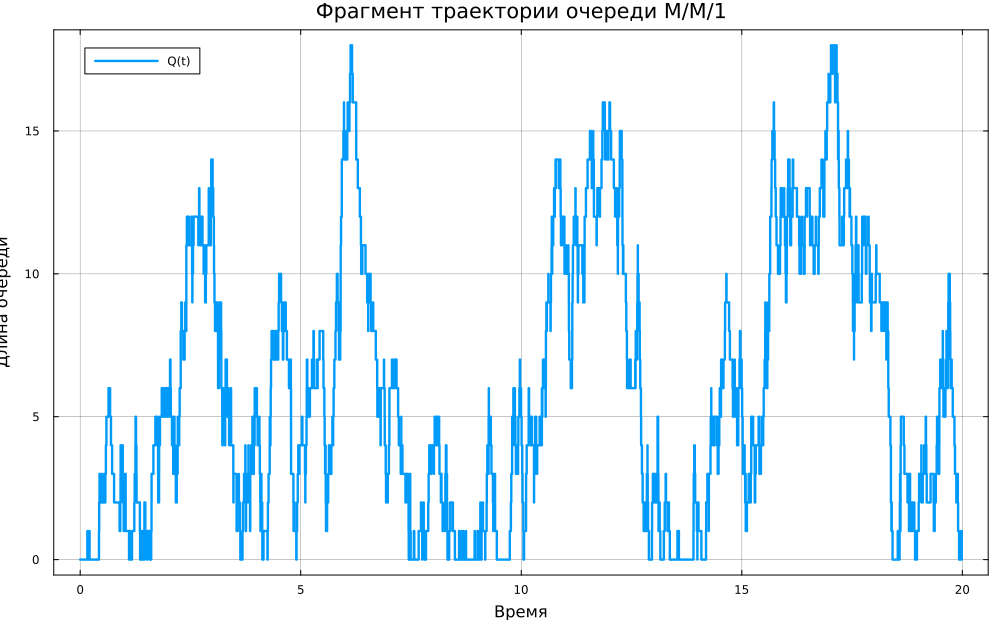
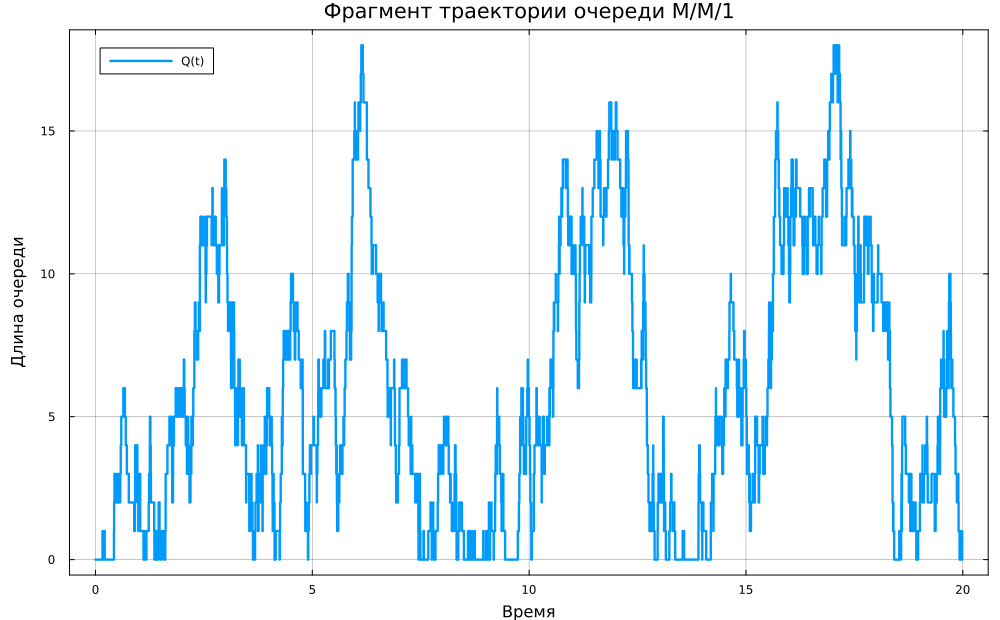
fix(lab03): render executed notebooks and correct plot margins

diff --git a/labs/lab03/project/markdown/01_mm1_queue/01_mm1_queue.html b/labs/lab03/project/markdown/01_mm1_queue/01_mm1_queue.html
@@ -7,7 +7,7 @@
 <meta name="viewport" content="width=device-width, initial-scale=1.0, user-scalable=yes">
 
 
-<title>mm1_queue</title>
+<title>Система массового обслуживания M/M/1</title>
 <style>
 
 span.smallcaps{font-variant: small-caps;}
@@ -2228,7 +2228,7 @@ vertical-align: -.125em;
 
 
 <p><strong>Цель:</strong> выполнить дискретно-событийное моделирование одноканальной СМО, сравнить статистические оценки с формулами теории очередей.</p>
-<div id="2" class="cell" data-execution_count="1">
+<div id="cell-2" class="cell" data-quarto-private-1="{&quot;key&quot;:&quot;execution&quot;,&quot;value&quot;:{&quot;iopub.execute_input&quot;:&quot;2026-08-31T09:40:03.692000Z&quot;,&quot;iopub.status.busy&quot;:&quot;2026-08-31T09:40:03.688000Z&quot;,&quot;iopub.status.idle&quot;:&quot;2026-08-31T09:40:20.986000Z&quot;,&quot;shell.execute_reply&quot;:&quot;2026-08-31T09:40:20.986000Z&quot;}}" data-execution_count="1">
 <div class="code-copy-outer-scaffold"><div class="sourceCode cell-code" id="cb1"><pre class="sourceCode julia code-with-copy"><code class="sourceCode julia"><span id="cb1-1"><a href="#cb1-1" aria-hidden="true" tabindex="-1"></a><span class="im">using</span> <span class="bu">DrWatson</span></span>
 <span id="cb1-2"><a href="#cb1-2" aria-hidden="true" tabindex="-1"></a><span class="pp">@quickactivate</span> <span class="st">&quot;project&quot;</span></span>
 <span id="cb1-3"><a href="#cb1-3" aria-hidden="true" tabindex="-1"></a><span class="cn">ENV</span>[<span class="st">&quot;GKSwstype&quot;</span>] <span class="op">=</span> <span class="st">&quot;100&quot;</span></span>
@@ -2255,40 +2255,50 @@ vertical-align: -.125em;
 <span id="cb1-24"><a href="#cb1-24" aria-hidden="true" tabindex="-1"></a><span class="fu">println</span>(<span class="st">&quot;Заявок: </span><span class="sc">$</span>(result.arrivals)<span class="st">, обслужено: </span><span class="sc">$</span>(result.served)<span class="st">, потеряно: </span><span class="sc">$</span>(result.lost)<span class="st">&quot;</span>)</span>
 <span id="cb1-25"><a href="#cb1-25" aria-hidden="true" tabindex="-1"></a><span class="fu">show</span>(summary; allrows<span class="op">=</span><span class="cn">true</span>, allcols<span class="op">=</span><span class="cn">true</span>); <span class="fu">println</span>()</span>
 <span id="cb1-26"><a href="#cb1-26" aria-hidden="true" tabindex="-1"></a></span>
-<span id="cb1-27"><a href="#cb1-27" aria-hidden="true" tabindex="-1"></a><span class="fu">default</span>(fontfamily<span class="op">=</span><span class="st">&quot;DejaVu Sans&quot;</span>, linewidth<span class="op">=</span><span class="fl">2.4</span>, framestyle<span class="op">=:</span>box, gridalpha<span class="op">=</span><span class="fl">0.22</span>)</span>
-<span id="cb1-28"><a href="#cb1-28" aria-hidden="true" tabindex="-1"></a>limit <span class="op">=</span> <span class="fu">searchsortedlast</span>(result.times, <span class="fl">20.0</span>)</span>
-<span id="cb1-29"><a href="#cb1-29" aria-hidden="true" tabindex="-1"></a>p1 <span class="op">=</span> <span class="fu">plot</span>(result.times[<span class="fl">1</span><span class="op">:</span>limit], result.queue_lengths[<span class="fl">1</span><span class="op">:</span>limit]; seriestype<span class="op">=:</span>steppost,</span>
-<span id="cb1-30"><a href="#cb1-30" aria-hidden="true" tabindex="-1"></a>    xlabel<span class="op">=</span><span class="st">&quot;Время&quot;</span>, ylabel<span class="op">=</span><span class="st">&quot;Длина очереди&quot;</span>, label<span class="op">=</span><span class="st">&quot;Q(t)&quot;</span>,</span>
-<span id="cb1-31"><a href="#cb1-31" aria-hidden="true" tabindex="-1"></a>    title<span class="op">=</span><span class="st">&quot;Фрагмент траектории очереди M/M/1&quot;</span>, size<span class="op">=</span>(<span class="fl">1000</span>,<span class="fl">620</span>))</span>
-<span id="cb1-32"><a href="#cb1-32" aria-hidden="true" tabindex="-1"></a><span class="fu">savefig</span>(p1, <span class="fu">plotsdir</span>(name, <span class="st">&quot;queue_trajectory.png&quot;</span>))</span>
-<span id="cb1-33"><a href="#cb1-33" aria-hidden="true" tabindex="-1"></a></span>
-<span id="cb1-34"><a href="#cb1-34" aria-hidden="true" tabindex="-1"></a>p2 <span class="op">=</span> <span class="fu">histogram</span>(result.waits; bins<span class="op">=</span><span class="fl">50</span>, normalize<span class="op">=:</span>pdf, alpha<span class="op">=</span><span class="fl">0.65</span>,</span>
-<span id="cb1-35"><a href="#cb1-35" aria-hidden="true" tabindex="-1"></a>    xlabel<span class="op">=</span><span class="st">&quot;Время ожидания&quot;</span>, ylabel<span class="op">=</span><span class="st">&quot;Плотность&quot;</span>, label<span class="op">=</span><span class="st">&quot;моделирование&quot;</span>,</span>
-<span id="cb1-36"><a href="#cb1-36" aria-hidden="true" tabindex="-1"></a>    title<span class="op">=</span><span class="st">&quot;Распределение времени ожидания&quot;</span>, size<span class="op">=</span>(<span class="fl">1000</span>,<span class="fl">620</span>))</span>
-<span id="cb1-37"><a href="#cb1-37" aria-hidden="true" tabindex="-1"></a><span class="fu">savefig</span>(p2, <span class="fu">plotsdir</span>(name, <span class="st">&quot;wait_histogram.png&quot;</span>))</span>
-<span id="cb1-38"><a href="#cb1-38" aria-hidden="true" tabindex="-1"></a></span>
-<span id="cb1-39"><a href="#cb1-39" aria-hidden="true" tabindex="-1"></a>p3 <span class="op">=</span> <span class="fu">bar</span>(summary.metric, summary.theory; bar_position<span class="op">=:</span>dodge, bar_width<span class="op">=</span><span class="fl">0.38</span>,</span>
-<span id="cb1-40"><a href="#cb1-40" aria-hidden="true" tabindex="-1"></a>    label<span class="op">=</span><span class="st">&quot;теория&quot;</span>, ylabel<span class="op">=</span><span class="st">&quot;Значение&quot;</span>, title<span class="op">=</span><span class="st">&quot;Теория и имитация M/M/1&quot;</span>,</span>
-<span id="cb1-41"><a href="#cb1-41" aria-hidden="true" tabindex="-1"></a>    size<span class="op">=</span>(<span class="fl">1000</span>,<span class="fl">620</span>))</span>
-<span id="cb1-42"><a href="#cb1-42" aria-hidden="true" tabindex="-1"></a><span class="fu">bar!</span>(p3, summary.metric, summary.simulation; bar_position<span class="op">=:</span>dodge,</span>
-<span id="cb1-43"><a href="#cb1-43" aria-hidden="true" tabindex="-1"></a>    bar_width<span class="op">=</span><span class="fl">0.38</span>, label<span class="op">=</span><span class="st">&quot;моделирование&quot;</span>)</span>
-<span id="cb1-44"><a href="#cb1-44" aria-hidden="true" tabindex="-1"></a><span class="fu">savefig</span>(p3, <span class="fu">plotsdir</span>(name, <span class="st">&quot;theory_vs_simulation.png&quot;</span>))</span></code></pre></div><button title="Copy to Clipboard" class="code-copy-button"><i class="bi"></i></button></div>
+<span id="cb1-27"><a href="#cb1-27" aria-hidden="true" tabindex="-1"></a><span class="fu">default</span>(fontfamily<span class="op">=</span><span class="st">&quot;DejaVu Sans&quot;</span>, linewidth<span class="op">=</span><span class="fl">2.4</span>, framestyle<span class="op">=:</span>box, gridalpha<span class="op">=</span><span class="fl">0.22</span>,</span>
+<span id="cb1-28"><a href="#cb1-28" aria-hidden="true" tabindex="-1"></a>    left_margin<span class="op">=</span><span class="fl">5</span> <span class="op">*</span> Plots.mm)</span>
+<span id="cb1-29"><a href="#cb1-29" aria-hidden="true" tabindex="-1"></a>limit <span class="op">=</span> <span class="fu">searchsortedlast</span>(result.times, <span class="fl">20.0</span>)</span>
+<span id="cb1-30"><a href="#cb1-30" aria-hidden="true" tabindex="-1"></a>p1 <span class="op">=</span> <span class="fu">plot</span>(result.times[<span class="fl">1</span><span class="op">:</span>limit], result.queue_lengths[<span class="fl">1</span><span class="op">:</span>limit]; seriestype<span class="op">=:</span>steppost,</span>
+<span id="cb1-31"><a href="#cb1-31" aria-hidden="true" tabindex="-1"></a>    xlabel<span class="op">=</span><span class="st">&quot;Время&quot;</span>, ylabel<span class="op">=</span><span class="st">&quot;Длина очереди&quot;</span>, label<span class="op">=</span><span class="st">&quot;Q(t)&quot;</span>,</span>
+<span id="cb1-32"><a href="#cb1-32" aria-hidden="true" tabindex="-1"></a>    title<span class="op">=</span><span class="st">&quot;Фрагмент траектории очереди M/M/1&quot;</span>, size<span class="op">=</span>(<span class="fl">1000</span>,<span class="fl">620</span>))</span>
+<span id="cb1-33"><a href="#cb1-33" aria-hidden="true" tabindex="-1"></a><span class="fu">savefig</span>(p1, <span class="fu">plotsdir</span>(name, <span class="st">&quot;queue_trajectory.png&quot;</span>))</span>
+<span id="cb1-34"><a href="#cb1-34" aria-hidden="true" tabindex="-1"></a></span>
+<span id="cb1-35"><a href="#cb1-35" aria-hidden="true" tabindex="-1"></a>p2 <span class="op">=</span> <span class="fu">histogram</span>(result.waits; bins<span class="op">=</span><span class="fl">50</span>, normalize<span class="op">=:</span>pdf, alpha<span class="op">=</span><span class="fl">0.65</span>,</span>
+<span id="cb1-36"><a href="#cb1-36" aria-hidden="true" tabindex="-1"></a>    xlabel<span class="op">=</span><span class="st">&quot;Время ожидания&quot;</span>, ylabel<span class="op">=</span><span class="st">&quot;Плотность&quot;</span>, label<span class="op">=</span><span class="st">&quot;моделирование&quot;</span>,</span>
+<span id="cb1-37"><a href="#cb1-37" aria-hidden="true" tabindex="-1"></a>    title<span class="op">=</span><span class="st">&quot;Распределение времени ожидания&quot;</span>, size<span class="op">=</span>(<span class="fl">1000</span>,<span class="fl">620</span>))</span>
+<span id="cb1-38"><a href="#cb1-38" aria-hidden="true" tabindex="-1"></a><span class="fu">savefig</span>(p2, <span class="fu">plotsdir</span>(name, <span class="st">&quot;wait_histogram.png&quot;</span>))</span>
+<span id="cb1-39"><a href="#cb1-39" aria-hidden="true" tabindex="-1"></a></span>
+<span id="cb1-40"><a href="#cb1-40" aria-hidden="true" tabindex="-1"></a>p3 <span class="op">=</span> <span class="fu">plot</span>(summary.metric, summary.theory; marker<span class="op">=:</span>circle, markersize<span class="op">=</span><span class="fl">8</span>,</span>
+<span id="cb1-41"><a href="#cb1-41" aria-hidden="true" tabindex="-1"></a>    label<span class="op">=</span><span class="st">&quot;теория&quot;</span>, ylabel<span class="op">=</span><span class="st">&quot;Значение&quot;</span>, title<span class="op">=</span><span class="st">&quot;Теория и имитация M/M/1&quot;</span>,</span>
+<span id="cb1-42"><a href="#cb1-42" aria-hidden="true" tabindex="-1"></a>    size<span class="op">=</span>(<span class="fl">1000</span>,<span class="fl">620</span>))</span>
+<span id="cb1-43"><a href="#cb1-43" aria-hidden="true" tabindex="-1"></a><span class="fu">plot!</span>(p3, summary.metric, summary.simulation; marker<span class="op">=:</span>diamond, markersize<span class="op">=</span><span class="fl">7</span>,</span>
+<span id="cb1-44"><a href="#cb1-44" aria-hidden="true" tabindex="-1"></a>    linestyle<span class="op">=:</span>dash, label<span class="op">=</span><span class="st">&quot;моделирование&quot;</span>)</span>
+<span id="cb1-45"><a href="#cb1-45" aria-hidden="true" tabindex="-1"></a><span class="fu">savefig</span>(p3, <span class="fu">plotsdir</span>(name, <span class="st">&quot;theory_vs_simulation.png&quot;</span>))</span></code></pre></div><button title="Copy to Clipboard" class="code-copy-button"><i class="bi"></i></button></div>
 <div class="cell-output cell-output-stdout">
 <div class="ansi-escaped-output">
 <pre>=== СМО M/M/1: базовый эксперимент ===
+
 lambda = 30.0, mu = 33.0, rho = 0.9091
+
 Заявок: 29825, обслужено: 29825, потеряно: 0
+
 <span class="ansi-bold">5×4 DataFrame</span>
+
 <span class="ansi-bold"> Row </span>│<span class="ansi-bold"> metric </span><span class="ansi-bold"> theory    </span><span class="ansi-bold"> simulation </span><span class="ansi-bold"> relative_error </span>
+
 <span class="ansi-bold">     </span>│<span class="ansi-bright-black-fg"> String </span><span class="ansi-bright-black-fg"> Float64   </span><span class="ansi-bright-black-fg"> Float64    </span><span class="ansi-bright-black-fg"> Float64        </span>
+
 ─────┼───────────────────────────────────────────────
+
    1 │ rho      0.909091    0.914581      0.00603923
+
    2 │ L       10.0         9.52472       0.047528
+
    3 │ Lq       9.09091     8.61014       0.0528848
+
    4 │ W        0.333333    0.319354      0.0419393
+
    5 │ Wq       0.30303     0.288689      0.0473275
-<span class="ansi-yellow-fg ansi-bold">┌ </span><span class="ansi-yellow-fg ansi-bold">Warning: </span>Keyword argument bar_position not supported with Plots.GRBackend().  Choose from: annotationcolor, annotationfontfamily, annotationfontsize, annotationhalign, annotationrotation, annotations, annotationvalign, arrow, aspect_ratio, axis, background_color, background_color_inside, background_color_outside, background_color_subplot, bar_width, bins, bottom_margin, camera, clims, color_palette, colorbar, colorbar_entry, colorbar_scale, colorbar_title, colorbar_titlefont, colorbar_titlefontcolor, colorbar_titlefontrotation, colorbar_titlefontsize, connections, contour_labels, discrete_values, fill, fill_z, fillalpha, fillcolor, fillrange, fillstyle, flip, fontfamily, fontfamily_subplot, foreground_color, foreground_color_axis, foreground_color_border, foreground_color_grid, foreground_color_subplot, foreground_color_text, formatter, framestyle, grid, gridalpha, gridlinewidth, gridstyle, group, guide, guidefont, guidefontcolor, guidefontfamily, guidefonthalign, guidefontrotation, guidefontsize, guidefontvalign, html_output_format, inset_subplots, label, layout, left_margin, legend_background_color, legend_column, legend_font, legend_font_color, legend_font_family, legend_font_halign, legend_font_pointsize, legend_font_rotation, legend_font_valign, legend_foreground_color, legend_position, legend_title, legend_title_font_color, legend_title_font_family, legend_title_font_pointsize, legend_title_font_rotation, legend_title_font_valigm, levels, lims, line, line_z, linealpha, linecolor, linestyle, linewidth, link, margin, marker_z, markeralpha, markercolor, markershape, markersize, markerstrokealpha, markerstrokecolor, markerstrokewidth, minorgrid, minorgridalpha, minorgridlinewidth, minorgridstyle, minorticks, mirror, normalize, orientation, overwrite_figure, permute, plot_title, plot_titlefontcolor, plot_titlefontfamily, plot_titlefontrotation, plot_titlefontsize, plot_titlelocation, plot_titlevspan, polar, primary, projection, quiver, ribbon, right_margin, rotation, scale, series_annotations, seriesalpha, seriescolor, seriestype, show, show_empty_bins, showaxis, size, smooth, subplot, subplot_index, thickness_scaling, tick_direction, tickfontcolor, tickfontfamily, tickfonthalign, tickfontrotation, tickfontsize, tickfontvalign, ticks, title, titlefontcolor, titlefontfamily, titlefonthalign, titlefontrotation, titlefontsize, titlefontvalign, top_margin, unitformat, weights, widen, window_title, x, xdiscrete_values, xerror, xflip, xforeground_color_axis, xforeground_color_border, xforeground_color_grid, xforeground_color_text, xformatter, xgrid, xgridalpha, xgridlinewidth, xgridstyle, xguide, xguidefontcolor, xguidefontfamily, xguidefonthalign, xguidefontrotation, xguidefontsize, xguidefontvalign, xlims, xlink, xminorgrid, xminorgridalpha, xminorgridlinewidth, xminorgridstyle, xminorticks, xmirror, xrotation, xscale, xshowaxis, xtick_direction, xtickfontcolor, xtickfontfamily, xtickfonthalign, xtickfontrotation, xtickfontsize, xtickfontvalign, xticks, xunitformat, xwiden, y, ydiscrete_values, yerror, yflip, yforeground_color_axis, yforeground_color_border, yforeground_color_grid, yforeground_color_text, yformatter, ygrid, ygridalpha, ygridlinewidth, ygridstyle, yguide, yguidefontcolor, yguidefontfamily, yguidefonthalign, yguidefontrotation, yguidefontsize, yguidefontvalign, ylims, ylink, yminorgrid, yminorgridalpha, yminorgridlinewidth, yminorgridstyle, yminorticks, ymirror, yrotation, yscale, yshowaxis, ytick_direction, ytickfontcolor, ytickfontfamily, ytickfonthalign, ytickfontrotation, ytickfontsize, ytickfontvalign, yticks, yunitformat, ywiden, z, z_order, zdiscrete_values, zerror, zflip, zforeground_color_axis, zforeground_color_border, zforeground_color_grid, zforeground_color_text, zformatter, zgrid, zgridalpha, zgridlinewidth, zgridstyle, zguide, zguidefontcolor, zguidefontfamily, zguidefonthalign, zguidefontrotation, zguidefontsize, zguidefontvalign, zlims, zlink, zminorgrid, zminorgridalpha, zminorgridlinewidth, zminorgridstyle, zminorticks, zmirror, zrotation, zscale, zshowaxis, ztick_direction, ztickfontcolor, ztickfontfamily, ztickfonthalign, ztickfontrotation, ztickfontsize, ztickfontvalign, zticks, zunitformat, zwiden
-<span class="ansi-yellow-fg ansi-bold">└ </span><span class="ansi-bright-black-fg">@ Plots /workspace/labs/lab03/project/.julia/packages/Plots/h49MV/src/args.jl:1563</span>
 </pre>
 </div>
 </div>

diff --git a/labs/lab03/project/markdown/02_load_scan/02_load_scan.html b/labs/lab03/project/markdown/02_load_scan/02_load_scan.html
@@ -7,7 +7,7 @@
 <meta name="viewport" content="width=device-width, initial-scale=1.0, user-scalable=yes">
 
 
-<title>load_scan</title>
+<title>Нагрузочный эксперимент для M/M/1</title>
 <style>
 
 span.smallcaps{font-variant: small-caps;}
@@ -2228,7 +2228,7 @@ vertical-align: -.125em;
 
 
 <p><strong>Цель:</strong> показать нелинейный рост очереди при приближении загрузки к единице.</p>
-<div id="2" class="cell" data-execution_count="1">
+<div id="cell-2" class="cell" data-quarto-private-1="{&quot;key&quot;:&quot;execution&quot;,&quot;value&quot;:{&quot;iopub.execute_input&quot;:&quot;2026-08-31T09:40:25.246000Z&quot;,&quot;iopub.status.busy&quot;:&quot;2026-08-31T09:40:25.221000Z&quot;,&quot;iopub.status.idle&quot;:&quot;2026-08-31T09:40:48.885000Z&quot;,&quot;shell.execute_reply&quot;:&quot;2026-08-31T09:40:48.885000Z&quot;}}" data-execution_count="1">
 <div class="code-copy-outer-scaffold"><div class="sourceCode cell-code" id="cb1"><pre class="sourceCode julia code-with-copy"><code class="sourceCode julia"><span id="cb1-1"><a href="#cb1-1" aria-hidden="true" tabindex="-1"></a><span class="im">using</span> <span class="bu">DrWatson</span></span>
 <span id="cb1-2"><a href="#cb1-2" aria-hidden="true" tabindex="-1"></a><span class="pp">@quickactivate</span> <span class="st">&quot;project&quot;</span></span>
 <span id="cb1-3"><a href="#cb1-3" aria-hidden="true" tabindex="-1"></a><span class="cn">ENV</span>[<span class="st">&quot;GKSwstype&quot;</span>] <span class="op">=</span> <span class="st">&quot;100&quot;</span></span>
@@ -2257,30 +2257,42 @@ vertical-align: -.125em;
 <span id="cb1-26"><a href="#cb1-26" aria-hidden="true" tabindex="-1"></a><span class="fu">println</span>(<span class="st">&quot;=== Нагрузочный эксперимент M/M/1 ===&quot;</span>)</span>
 <span id="cb1-27"><a href="#cb1-27" aria-hidden="true" tabindex="-1"></a><span class="fu">show</span>(scan; allrows<span class="op">=</span><span class="cn">true</span>, allcols<span class="op">=</span><span class="cn">true</span>); <span class="fu">println</span>()</span>
 <span id="cb1-28"><a href="#cb1-28" aria-hidden="true" tabindex="-1"></a></span>
-<span id="cb1-29"><a href="#cb1-29" aria-hidden="true" tabindex="-1"></a><span class="fu">default</span>(fontfamily<span class="op">=</span><span class="st">&quot;DejaVu Sans&quot;</span>, linewidth<span class="op">=</span><span class="fl">2.4</span>, framestyle<span class="op">=:</span>box, gridalpha<span class="op">=</span><span class="fl">0.22</span>)</span>
-<span id="cb1-30"><a href="#cb1-30" aria-hidden="true" tabindex="-1"></a>p1 <span class="op">=</span> <span class="fu">plot</span>(scan.rho, scan.theory_Lq; label<span class="op">=</span><span class="st">&quot;теория&quot;</span>, xlabel<span class="op">=</span><span class="st">&quot;Загрузка rho&quot;</span>,</span>
-<span id="cb1-31"><a href="#cb1-31" aria-hidden="true" tabindex="-1"></a>    ylabel<span class="op">=</span><span class="st">&quot;Средняя длина очереди&quot;</span>, title<span class="op">=</span><span class="st">&quot;Рост очереди при rho → 1&quot;</span>,</span>
-<span id="cb1-32"><a href="#cb1-32" aria-hidden="true" tabindex="-1"></a>    size<span class="op">=</span>(<span class="fl">1000</span>,<span class="fl">620</span>), marker<span class="op">=:</span>circle)</span>
-<span id="cb1-33"><a href="#cb1-33" aria-hidden="true" tabindex="-1"></a><span class="fu">plot!</span>(p1, scan.rho, scan.simulation_Lq; label<span class="op">=</span><span class="st">&quot;моделирование&quot;</span>, marker<span class="op">=:</span>diamond)</span>
-<span id="cb1-34"><a href="#cb1-34" aria-hidden="true" tabindex="-1"></a><span class="fu">savefig</span>(p1, <span class="fu">plotsdir</span>(name, <span class="st">&quot;load_curve.png&quot;</span>))</span>
-<span id="cb1-35"><a href="#cb1-35" aria-hidden="true" tabindex="-1"></a></span>
-<span id="cb1-36"><a href="#cb1-36" aria-hidden="true" tabindex="-1"></a>p2 <span class="op">=</span> <span class="fu">plot</span>(scan.rho, scan.simulation_Wq; label<span class="op">=</span><span class="st">&quot;Wq&quot;</span>, xlabel<span class="op">=</span><span class="st">&quot;Загрузка rho&quot;</span>,</span>
-<span id="cb1-37"><a href="#cb1-37" aria-hidden="true" tabindex="-1"></a>    ylabel<span class="op">=</span><span class="st">&quot;Среднее ожидание&quot;</span>, title<span class="op">=</span><span class="st">&quot;Задержка в зависимости от нагрузки&quot;</span>,</span>
-<span id="cb1-38"><a href="#cb1-38" aria-hidden="true" tabindex="-1"></a>    size<span class="op">=</span>(<span class="fl">1000</span>,<span class="fl">620</span>), marker<span class="op">=:</span>circle, color<span class="op">=:</span>red)</span>
-<span id="cb1-39"><a href="#cb1-39" aria-hidden="true" tabindex="-1"></a><span class="fu">savefig</span>(p2, <span class="fu">plotsdir</span>(name, <span class="st">&quot;wait_curve.png&quot;</span>))</span></code></pre></div><button title="Copy to Clipboard" class="code-copy-button"><i class="bi"></i></button></div>
+<span id="cb1-29"><a href="#cb1-29" aria-hidden="true" tabindex="-1"></a><span class="fu">default</span>(fontfamily<span class="op">=</span><span class="st">&quot;DejaVu Sans&quot;</span>, linewidth<span class="op">=</span><span class="fl">2.4</span>, framestyle<span class="op">=:</span>box, gridalpha<span class="op">=</span><span class="fl">0.22</span>,</span>
+<span id="cb1-30"><a href="#cb1-30" aria-hidden="true" tabindex="-1"></a>    left_margin<span class="op">=</span><span class="fl">5</span> <span class="op">*</span> Plots.mm)</span>
+<span id="cb1-31"><a href="#cb1-31" aria-hidden="true" tabindex="-1"></a>p1 <span class="op">=</span> <span class="fu">plot</span>(scan.rho, scan.theory_Lq; label<span class="op">=</span><span class="st">&quot;теория&quot;</span>, xlabel<span class="op">=</span><span class="st">&quot;Загрузка rho&quot;</span>,</span>
+<span id="cb1-32"><a href="#cb1-32" aria-hidden="true" tabindex="-1"></a>    ylabel<span class="op">=</span><span class="st">&quot;Средняя длина очереди&quot;</span>, title<span class="op">=</span><span class="st">&quot;Рост очереди при rho → 1&quot;</span>,</span>
+<span id="cb1-33"><a href="#cb1-33" aria-hidden="true" tabindex="-1"></a>    size<span class="op">=</span>(<span class="fl">1000</span>,<span class="fl">620</span>), marker<span class="op">=:</span>circle)</span>
+<span id="cb1-34"><a href="#cb1-34" aria-hidden="true" tabindex="-1"></a><span class="fu">plot!</span>(p1, scan.rho, scan.simulation_Lq; label<span class="op">=</span><span class="st">&quot;моделирование&quot;</span>, marker<span class="op">=:</span>diamond)</span>
+<span id="cb1-35"><a href="#cb1-35" aria-hidden="true" tabindex="-1"></a><span class="fu">savefig</span>(p1, <span class="fu">plotsdir</span>(name, <span class="st">&quot;load_curve.png&quot;</span>))</span>
+<span id="cb1-36"><a href="#cb1-36" aria-hidden="true" tabindex="-1"></a></span>
+<span id="cb1-37"><a href="#cb1-37" aria-hidden="true" tabindex="-1"></a>p2 <span class="op">=</span> <span class="fu">plot</span>(scan.rho, scan.simulation_Wq; label<span class="op">=</span><span class="st">&quot;Wq&quot;</span>, xlabel<span class="op">=</span><span class="st">&quot;Загрузка rho&quot;</span>,</span>
+<span id="cb1-38"><a href="#cb1-38" aria-hidden="true" tabindex="-1"></a>    ylabel<span class="op">=</span><span class="st">&quot;Среднее ожидание&quot;</span>, title<span class="op">=</span><span class="st">&quot;Задержка в зависимости от нагрузки&quot;</span>,</span>
+<span id="cb1-39"><a href="#cb1-39" aria-hidden="true" tabindex="-1"></a>    size<span class="op">=</span>(<span class="fl">1000</span>,<span class="fl">620</span>), marker<span class="op">=:</span>circle, color<span class="op">=:</span>red)</span>
+<span id="cb1-40"><a href="#cb1-40" aria-hidden="true" tabindex="-1"></a><span class="fu">savefig</span>(p2, <span class="fu">plotsdir</span>(name, <span class="st">&quot;wait_curve.png&quot;</span>))</span></code></pre></div><button title="Copy to Clipboard" class="code-copy-button"><i class="bi"></i></button></div>
 <div class="cell-output cell-output-stdout">
 <div class="ansi-escaped-output">
 <pre>=== Нагрузочный эксперимент M/M/1 ===
+
 <span class="ansi-bold">7×6 DataFrame</span>
+
 <span class="ansi-bold"> Row </span>│<span class="ansi-bold"> lambda  </span><span class="ansi-bold"> rho      </span><span class="ansi-bold"> theory_Lq </span><span class="ansi-bold"> simulation_Lq </span><span class="ansi-bold"> simulation_Wq </span><span class="ansi-bold"> utilization </span>
+
 <span class="ansi-bold">     </span>│<span class="ansi-bright-black-fg"> Float64 </span><span class="ansi-bright-black-fg"> Float64  </span><span class="ansi-bright-black-fg"> Float64   </span><span class="ansi-bright-black-fg"> Float64       </span><span class="ansi-bright-black-fg"> Float64       </span><span class="ansi-bright-black-fg"> Float64     </span>
+
 ─────┼─────────────────────────────────────────────────────────────────────────
+
    1 │    10.0  0.30303    0.131752       0.131351      0.0131508     0.303057
+
    2 │    20.0  0.606061   0.932401       0.919864      0.0460839     0.604814
+
    3 │    25.0  0.757576   2.36742        2.35017       0.0940275     0.756256
+
    4 │    28.0  0.848485   4.75152        4.71503       0.168194      0.847978
+
    5 │    30.0  0.909091   9.09091        9.09158       0.302779      0.909577
+
    6 │    31.5  0.954545  20.0455        20.2187        0.64219       0.953636
+
    7 │    32.5  0.984848  64.0152        65.3523        2.0059        0.985195
 </pre>
 </div>

diff --git a/labs/lab03/CHANGELOG.md b/labs/lab03/CHANGELOG.md
@@ -20,5 +20,6 @@
 
 - В презентации исправлено значение средней очереди для серии прогонов при загрузке 0,9091.
 - Увеличен левый отступ графиков: подписи осей больше не обрезаются.
+- HTML-страницы экспериментов собираются из выполненных блокнотов без повторного запуска ядра Julia.
 
 [3.0.0]: https://github.com/dakuokkonen1/study-2026-simulation-modeling/releases/tag/v3.0.0
